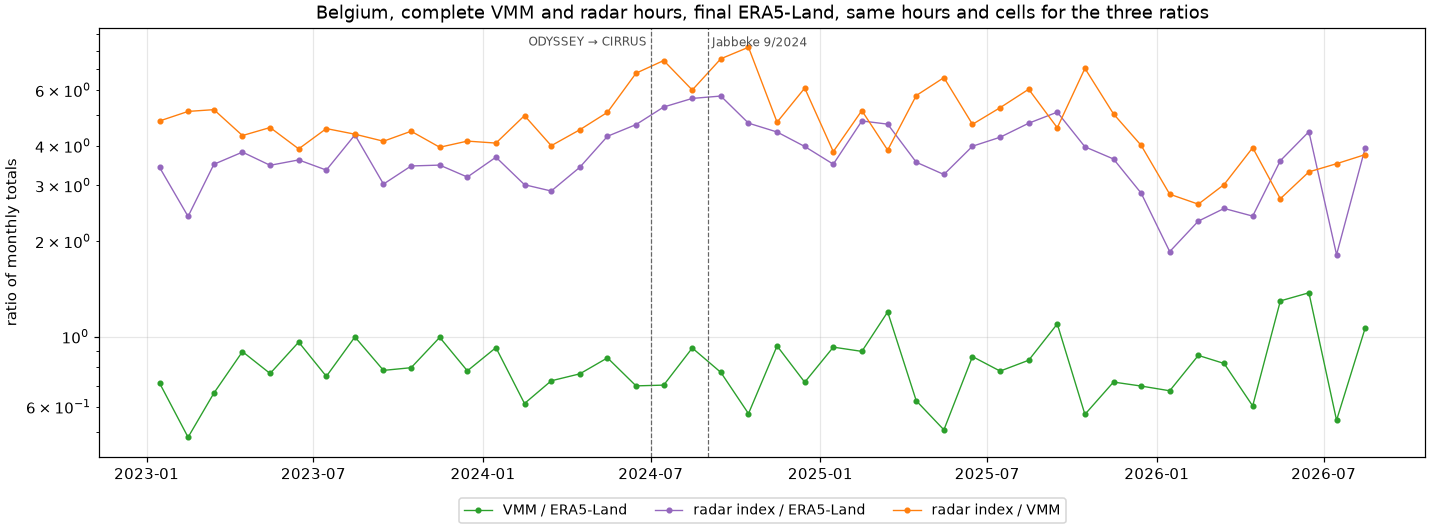
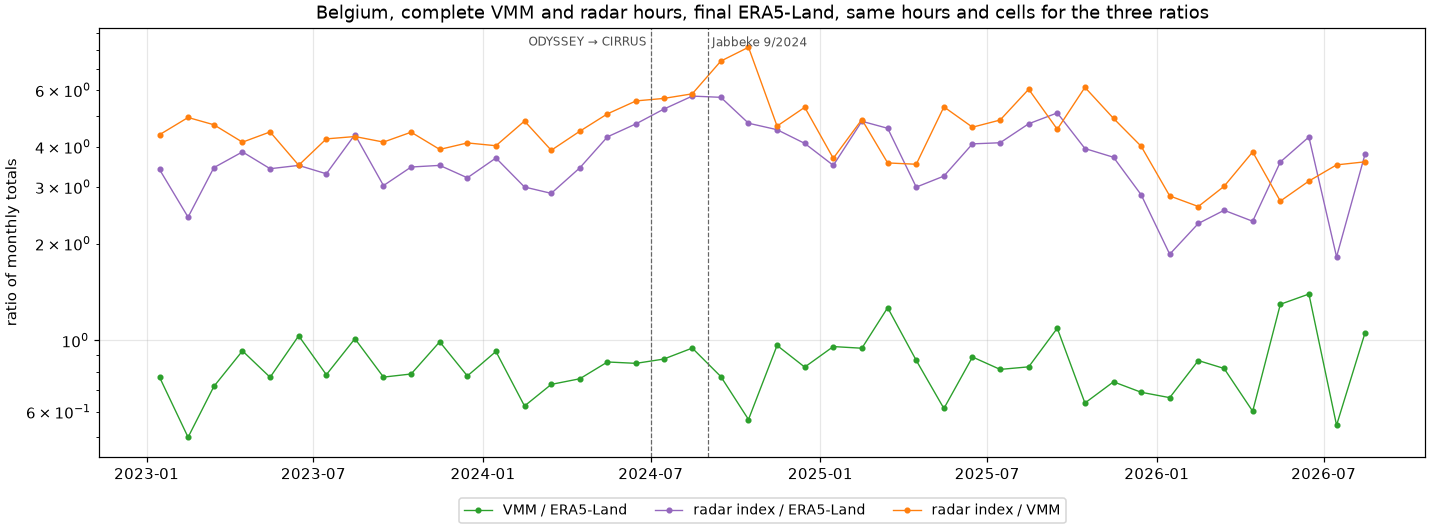
H3: leave VMM gaps out on both sides of the ratios; overlap days cleaned
The homogeneity test of 11/11 left the VMM cell-hours not covered out of VMM
only. Masked on both sides, VMM / ERA5-Land still has no step at 7/2024 or
9/2024; the radar / VMM step becomes +15% (was +25%).

diff --git a/scripts/odyssey_clean_era5grid.py b/scripts/odyssey_clean_era5grid.py
@@ -16,6 +16,8 @@ cleaned, so the raw sums can be checked against the notebook's files.
 
   uv run python scripts/odyssey_clean_era5grid.py --first 2013-04 --last 2024-06 --processes 16
 
+Use --last 2024-07 to add the overlap days, 1-5/7/2024, with the mask of the last period.
+
 Writes results/h3_level/era5grid_odyssey_clean_<YYYY-MM>.npz and prints one line per month when it is done.
 Months already written are skipped.
 """
@@ -38,7 +40,8 @@ H2 = RESULTS_DIR / "h2_artefacts"
 OUT = RESULTS_DIR / "h3_level"
 LAT_N, LON_W, STEP, NLAT, NLON = 55.0, -3.9, 0.1, 95, 158
 STEP_H = 0.25
-PERIODS = (("2013-04", "2015-11"), ("2015-12", "2018-07"), ("2018-08", "2024-06"))
+# periods of the static mask; the mask of 8/2018-6/2024 also serves the last ODYSSEY days, 1-5/7/2024 (overlap)
+PERIODS = (("2013-04", "2015-11"), ("2015-12", "2018-07"), ("2018-08", "2024-07"))
 
 
 def belgian_window():

diff --git a/docs/method.md b/docs/method.md
@@ -1474,36 +1474,44 @@ at a date, in log10, beside the month-to-month spread before it.
 
 The ERA5-Land / CERRA-Land comparison over 2012–2025 is in H3b (#82).
 
-**Result (11/11/2026): no break in the bridge at 7/2024 or 9/2024.**
-`notebooks/07-mr-level-correction.ipynb`, section 8. VMM on 466 Belgian
-ERA5-Land cells, 1/2023 → 8/2026 (44 months; 31,835 of 32,742 hours with all
-12 rasters), against final ERA5-Land on the same hours.
+**Result (11/11/2026, corrected 12/11/2026): no break in the bridge at 7/2024
+or 9/2024.** `notebooks/07-mr-level-correction.ipynb`, section 8. VMM on 466
+Belgian ERA5-Land cells, 1/2023 → 8/2026 (44 months; 31,835 of 32,742 hours
+with all 12 rasters), against final ERA5-Land on the same hours and cells.
+A VMM cell not fully covered in an hour is NaN (`scripts/vmm_hourly.py`):
+2–21% of the cell-hours per month, 21% in 7/2024. Those cell-hours are left
+out on both sides of every ratio; the first version of 11/11 left them out of
+VMM only, which lowered VMM in the months with many gaps (7/2024: 0.70
+instead of 0.88). The conclusions did not change; the numbers below are the
+corrected ones.
 
 ![Monthly ratios of VMM to ERA5-Land, and of the radar index to both, over Belgium, 2023–2026](figures/h3-level/vmm-era5-monthly.png)
 
 | ratio (log10 step, `opera_ds.homog.step`) | 7/2024, 12 months | 7/2024, 18 months | 9/2024, 12 months |
 |---|---|---|---|
-| VMM / ERA5-Land | −0.009 (×0.98), t-test p 0.79, Mann–Whitney p 0.89 | +0.001 (×1.00), p 0.97 and 0.94 | −0.004 (×0.99), p 0.91 and 0.93 |
-| radar index / VMM | +0.096 (×1.25), p 0.015 and 0.035 | +0.082 (×1.21), p 0.005 and 0.012 | +0.055 (×1.13), p 0.19 and 0.19 |
-| radar index / ERA5-Land, same hours and cells | +0.095 (×1.25), p 0.005 and 0.005 | +0.091 (×1.23), p 0.001 and 0.001 | +0.055 (×1.13), p 0.13 and 0.08 |
+| VMM / ERA5-Land | +0.022 (×1.05), t-test p 0.50, Mann–Whitney p 0.31 | +0.019 (×1.04), p 0.50 and 0.46 | +0.013 (×1.03), p 0.69 and 0.54 |
+| radar index / VMM | +0.060 (×1.15), p 0.11 and 0.14 | +0.062 (×1.15), p 0.024 and 0.028 | +0.034 (×1.08), p 0.38 and 0.51 |
+| radar index / ERA5-Land, same hours and cells | +0.091 (×1.23), p 0.012 and 0.019 | +0.088 (×1.22), p 0.002 and 0.003 | +0.048 (×1.12), p 0.20 and 0.19 |
 
 - **The two bridges agree across the switch.** VMM / ERA5-Land has no step at
   7/2024 or 9/2024; its monthly spread is 0.06–0.08 in log10, so a break of
-  about 0.075 (about 19%) would have been found with 80% probability
+  about 0.07 (about 18%) would have been found with 80% probability
   (1.2 standard deviations with 12 months, 0.96 with 18; *Window* above). A change common to both is unlikely: they share no input
   (ERA5 assimilates no European radar or gauge rain; *ERA5-Land* above). The
   Jabbeke problem of 9/2024 does not show in the VMM monthly totals.
-- **ODYSSEY → CIRRUS against either bridge: about +21–25% in amounts.** The
-  radar step is the same against VMM and against ERA5-Land, and significant
-  with 12 and 18 months. It is much smaller than the factor of about 2 of the
-  overlap days, which were almost dry (*Climate around the switch*).
+- **ODYSSEY → CIRRUS: about +15% in amounts against VMM, +22–23% against
+  ERA5-Land** (raw ODYSSEY; cleaned: below). The difference between the two
+  is the small, not significant VMM / ERA5-Land step. The step against
+  ERA5-Land is significant with 12 and 18 months, against VMM with 18. Both
+  are much smaller than the factor of about 2 of the overlap days, which were
+  almost dry (*Climate around the switch*).
 - **CIRRUS drops again in 2026.** From 1/2026 the radar index falls against
   both bridges while VMM / ERA5-Land does not: with 8 months each side the step
-  at 1/2026 is −0.223 (×0.60) against VMM and −0.159 (×0.69) against ERA5-Land,
-  and +0.063 (×1.16, p 0.34) for VMM / ERA5-Land. 1/2026 was read from the data,
+  at 1/2026 is −0.204 (×0.63) against VMM and −0.163 (×0.69) against ERA5-Land,
+  and +0.044 (×1.11, p 0.48) for VMM / ERA5-Land. 1/2026 was read from the data,
   not from metadata, so these p-values (below 0.03) are optimistic (WMO 2020,
   section 2.3.1, p. 14); no radar is missing from CIRRUS in 2026 (*Radars in
-  the CIRRUS composites*, data.md). The cause is not known.
+  the CIRRUS composites*, data.md). The cause is not known (#88).
 
 ### ODYSSEY and CIRRUS alone: the gap and the year-to-year spread
 
@@ -1693,8 +1701,8 @@ hours and steps as in the two sections above.
 | amounts / ERA5-Land at 7/2024, 24 months | +0.030 (×1.07), p 0.34 | +0.078 (×1.20), p 0.020 |
 | wet share / ERA5-Land at 7/2024, 12 months | +0.084 (×1.21), p < 0.001 | +0.112 (×1.29), p < 0.001 |
 | wet share / ERA5-Land at 7/2024, 24 months | +0.057 (×1.14), p 0.001 | +0.092 (×1.24), p < 0.001 |
-| amounts / VMM at 7/2024, 12 and 18 months, same hours | +0.096 and +0.082 (×1.25, ×1.21) | +0.140 and +0.130 (×1.38, ×1.35) |
-| amounts / ERA5-Land at 7/2024, 12 and 18 months, same hours as VMM | +0.095 and +0.091 (×1.25, ×1.23) | +0.139 and +0.139 (×1.38, ×1.38) |
+| amounts / VMM at 7/2024, 12 and 18 months, same hours | +0.060 and +0.062 (×1.15, ×1.15) | +0.104 and +0.111 (×1.27, ×1.29) |
+| amounts / ERA5-Land at 7/2024, 12 and 18 months, same hours as VMM | +0.091 and +0.088 (×1.23, ×1.22) | +0.135 and +0.137 (×1.36, ×1.37) |
 | amounts / ERA5-Land at 8/2018, 12 months | −0.197 (×0.64), p 0.002 | −0.132 (×0.74), p 0.022 |
 | amounts / ERA5-Land at 12/2015, 12 months | +0.071 (×1.18), p 0.37 | +0.093 (×1.24), p 0.18 |
 
@@ -1705,9 +1713,10 @@ reading (notebook).
   ERA5-Land before 2019 and by 7–17% from 2019 (25% in 2020, with the May
   2020 artefact). In 2023 the ratio falls by 9%, close to the 8.4% of the
   Belgian annual sum that H2 removes in 2023 (*First version on ODYSSEY 2023*).
-- **So the ODYSSEY → CIRRUS gap grows: about +35–38% in amounts** with 12 or
-  18 months, the same against VMM and against ERA5-Land, and **+24–29% in the
-  wet share**. With 24 months the amount step is now significant (+20%).
+- **So the ODYSSEY → CIRRUS gap grows: about +36–37% in amounts against
+  ERA5-Land and +27–29% against VMM** with 12 or 18 months, and **+24–29% in
+  the wet share** against ERA5-Land. With 24 months the amount step against
+  ERA5-Land is now significant (+20%).
 - **The cleaned ratio is more even across years**: yearly medians 2.8–3.9
   over 2013–2024, against 3.5–5.6 raw; 3.1–3.7 in 2019–2023.
 - **Artefact months shrink but stay.** The wet share relative to ERA5-Land

diff --git a/docs/usage.md b/docs/usage.md
@@ -152,8 +152,9 @@ uv run python scripts/odyssey_clean_era5grid.py --first 2013-04 --last 2024-06 -
   layout of the `era5grid_odyssey_<YYYY-MM>.npz` of notebook 07.
 - One line per month when it is written; months already written are
   skipped. 30 min for 135 months with 16 processes on the workstation.
-- Months outside 4/2013–6/2024 stop with an error: the static mask has no
-  period for them.
+- `--last 2024-07` adds the overlap days, 1–5/7/2024, with the mask of the
+  last period. Months outside 4/2013–7/2024 stop with an error: the static
+  mask has no period for them.
 
 ## IRENE test training on the workstation (T0)
 
